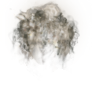
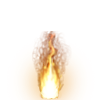
collission-detection big progress; animation class on the clientside

diff --git a/game_lib/math_lib.py b/game_lib/math_lib.py
@@ -25,7 +25,7 @@ def number_wrap(func):
     
 class Point:
     "класс точек и векторов"
-    def __init__(self,x=0,y=0):
+    def __init__(self,x,y):
         try:
             self.x = int(x)
             self.y = int(y)
@@ -82,14 +82,78 @@ class Point:
         
 NullPoint = Point(0,0)
 
+########################################################################
+from config import *
+
+
+
+def intersec_point(A,B,C,D):
+    "ищет точку пересечения двух векторов"
+    vector = (B-A)
+    if vector.y:
+        div = vector.x.__truediv__(vector.y)
+        divx = True
+    elif vector.x:
+        div = vector.y.__truediv__(vector.x)
+        divx = False
+    if C.x==D.x:
+        x = C.x - A.x
+        y = x/div if divx else x*div
+        return A+ Point(x,y)
+    elif C.y == D.y:
+        y = C.y - A.y
+        x = y*div if divx else y/div
+        return A + Point(x,y)
+
+def interception(A,B,C,D):
+    "пересекаются ли отрезки"
+    def ccw(A,B,C):
+        return (C.y-A.y)*(B.x-A.x) > (B.y-A.y)*(C.x-A.x)
+    return ccw(A,C,D) != ccw(B,C,D) and ccw(A,B,C) != ccw(A,B,D)
+
+
+def cross_tile(A, B, tilecord):
+    "выдает соседние тайлы с которыми пересекается вектор и координаты пересечения"
+    start = tilecord*TILESIZE
+    null, CELL = 0 , TILESIZE
+    cds = {tilecord + Point(0,1) : (start + Point(null ,CELL), start+Point(CELL,CELL)),
+                tilecord + Point(1,0) : (start + Point(CELL, CELL), start + Point(CELL, null)),
+                tilecord + Point(0,-1) : (start, start + Point(CELL, null)),
+                tilecord + Point(-1,0) : (start, start + Point(null, CELL))}
+    
+    return [(ij, intersec_point(A,B,C, D)) for ij,(C, D) in cds.items() if interception(A,B,C,D)]
+        
+
 def get_cross(position, vector):
-    "выдает координаты следующего пересекаемого тайла(требует доработки)"
-    single_move = vector*(TILESIZE/abs(vector))
-    new_position = position + single_move
-    if new_position/TILESIZE == position/TILESIZE:
-        new_position = position + single_move*1.5
-    i,j = (new_position/TILESIZE).get()
-    return i,j
+    "возвращает i,j пересекаемых векторов тайлов и координаты этих пересечений"
+    end_cord = (position+vector)/TILESIZE #i,j конечнй точки
+    results = []
+    cur_tile = position/TILESIZE
+    crossed = [cur_tile]
+    while 1:
+        counter = 0
+        crossed_tiles = cross_tile(position, position+vector, cur_tile)
+        #print 'loop', crossed_tiles, position, vector
+        if crossed_tiles:
+            for ij, cross in crossed_tiles:
+                if not ij in crossed:
+                    counter+=1
+                    crossed.append(ij)
+                    results.append((ij.get(), cross))
+                    cur_tile = ij
+                    if ij == end_cord:
+                        return results
+            if not counter:
+                #print 'COUNTER BREAK'
+                return results
+        else:
+            #print 'BREAK'
+            return results
+    return results
+
+
+            
+        
 
 def collinear(vector1, vector2):
     "проверяет сонаправленность векторов(приблизительно для простоты алгоритма)"
@@ -107,6 +171,10 @@ def collinear(vector1, vector2):
         raise TypeError("collinear: some of %s %s isn't Point instance")
 
 if __name__=='__main__':
-    p = Point(30,26)
-    p2 = Point(-1251,-1251)
-    print abs(p)
+    #A,B,C,D = Point(2,2), Point(5,6), Point(0,0), Point(4,0)
+    #print interception(A,B,C,D)
+    #6243:6085 117:106
+
+    position, vector = Point(6243,6085), Point(117,106)
+    print 'result', get_cross(position, vector)
+    

diff --git a/client_lib/client_objects.py b/client_lib/client_objects.py
@@ -18,7 +18,7 @@ class Object:
     DELAY = 0
     "класс игрового объекта на карте"
     def __init__(self, name, position):
-        print 'create %s' % name
+        #print 'create %s' % name
         self.position = position
         self.name = name
     
@@ -83,6 +83,35 @@ class Movable:
             print 'force move %s for %s' % (self.name, self.vector)
             self.position+=self.vector
             self.vector = NullPoint
+
+from math import ceil
+class Animated:
+    def __init__(self, tilename, frames, freq=1):
+        self.frames = frames
+        self.freq = float(freq)
+        self.animation_counter = 1
+        self.animation_tilename = tilename
+        self.DELAY = frames * freq
+    
+    def draw(self, shift):
+        position = self.position - shift - Point(TILESIZE/2,TILESIZE/2)
+        n = int(ceil(self.animation_counter/self.freq))
+        tilename = self.animation_tilename+'_%s' % n
+        
+        
+        return [create_tile(position, tilename)]
+    
+    def update(self, delta):
+        if self.animation_counter==self.frames*self.freq:
+            print 'clear counter'
+            self.DELAY = 0
+        else:
+            self.animation_counter+=1
+        
+        
+            
+        
+        
     
 class Player(Movable, Object):
     tilename = 'player'
@@ -91,9 +120,9 @@ class Player(Movable, Object):
         Movable.__init__(self)
     
     def draw(self, shift):
-        tile = Movable.draw(self,shift)
-        label  = create_label(self.name, Point(*tile[0][1]))
-        return tile + [label]
+        tiles = Movable.draw(self,shift)
+        label  = create_label(self.name, Point(*tiles[0][1]))
+        return tiles + [label]
     
     def die(self):
         self.tilename = 'player_die'
@@ -108,26 +137,28 @@ class SelfPlayer(Player):
     tilename = 'self'
 
 
-class Ball(Movable, Object):
+class Ball(Movable, Object, Animated):
     tilename = 'ball'
     def __init__(self, name, position):
         Object.__init__(self, name, position)
         Movable.__init__(self)
-    
-    def update(self, delta):
-        if self.REMOVE:
-            self.explode_c+=1
-            self.tilename = 'ball_explode_%s' % self.explode_c
+        
+    def update(self, dt):
+        if not self.REMOVE:
+            return Movable.update(self, dt)
         else:
-            Movable.update(self, delta)
+            return Animated.update(self, dt)
+    
+    def draw(self, shift):
+        if not self.REMOVE:
+            return Movable.draw(self, shift)
+        else:
+            return Animated.draw(self, shift)
     
     def explode(self):
-        self.explode_c = 1
-        self.tilename = 'ball_explode_%s' % self.explode_c
-        self.DELAY = 5
+        Animated.__init__(self, 'ball_explode',7,3)
         self.REMOVE = True
         self.moving = False
-        print 'ball explosion'
     
    
 

diff --git a/game_lib/engine_lib.py b/game_lib/engine_lib.py
@@ -98,20 +98,22 @@ class Movable:
         #если вектор движения не достиг нуля, то продолжить движение
         if self.vector:
             #проверка столкновения
-            i,j = get_cross(self.position, self.vector)
-            cross_tile =  game.world.map[i][j]
-            
-            if cross_tile in BLOCKTILES or (cross_tile in TRANSTILES and not self.crossing):
-                self.vector = NullPoint
-                self.move_vector = NullPoint
-                if self.fragile:
-                    self.REMOVE = True
-                    print 'COLLISION'
-            else:
-                part = self.speed / abs(self.vector) # доля пройденного пути в векторе
-                move_vector = self.vector * part if part<1 else self.vector
-                self.vector = self.vector - move_vector
-                self.move_vector = move_vector
+            part = self.speed / abs(self.vector) # доля пройденного пути в векторе
+            move_vector = self.vector * part if part<1 else self.vector
+            #
+            crossed = get_cross(self.position, move_vector)
+            #print 'crossed', crossed
+            for (i,j), cross_position in crossed:
+                cross_tile =  game.world.map[i][j]
+                if cross_tile in BLOCKTILES or (cross_tile in TRANSTILES and not self.crossing):
+                    move_vector = (cross_position - self.position)*0.99
+                    self.vector = move_vector
+                    #если объект хрупкий - отмечаем для удаления
+                    if self.fragile:
+                        self.REMOVE = True
+                    break
+            self.vector = self.vector - move_vector
+            self.move_vector = move_vector
         else:
             self.move_vector = self.vector
         self.prev_position = self.position

diff --git a/client.py b/client.py
@@ -206,7 +206,6 @@ class ObjectsView(GameWindow, Drawable):
         self.focus_object = False
     
     def create_object(self, name, object_type, position):
-        print 'create %s' % name
         game_object = object_dict[object_type](name, position)
         self.objects[name] = game_object
         
@@ -229,13 +228,14 @@ class ObjectsView(GameWindow, Drawable):
                         self.create_object(name, object_type, position)
                         if args=='self':
                             self.focus_object = name          
+        #удаяем объекты с мтеокй REMOVE
+        [self.remove_object(name) for name in self.objects.keys() if self.objects[name].REMOVE]
         #убираем объекты, для которых не получено обновлений
         new_objects = {}
-        for name in self.objects:
-            if name in self.updates and not self.objects[name].REMOVE:
-                new_objects[name] = self.objects[name]
-            else:
-                print 'filter %s' % name
+        for name, game_object in self.objects.items():
+            if name in self.updates or game_object.REMOVE:
+                new_objects[name] = game_object
+                
         self.objects = new_objects
         #выполняем апдейты
         if self.updates:
@@ -273,7 +273,6 @@ class ObjectsView(GameWindow, Drawable):
         if self.objects[name].DELAY:
             self.objects[name].DELAY-=1
         else:
-            print 'remove %s' % name
             if name in self.updates:
                 del self.updates[name]
             if name in self.objects:

diff --git a/client_lib/gui_lib.py b/client_lib/gui_lib.py
@@ -110,6 +110,7 @@ class InputHandle:
     MOVE_BUTTON = 1
     STRIKE_BUTTON = 4
     control_keys = [UP, DOWN, LEFT, RIGHT, RSHIFT]
+    striking = False
     
     def __init__(self):
         step = TILESIZE/2
@@ -135,14 +136,19 @@ class InputHandle:
         elif button==self.STRIKE_BUTTON:
             vector = (Point(x,y) - self.center)
             self.send_ball(vector)
+            self.striking = vector
     
     def on_mouse_release(self, x, y, button, modifiers):
         if button==self.MOVE_BUTTON:
             self.vector = False
+        elif button==self.STRIKE_BUTTON:
+            self.striking = False
     
     def on_mouse_drag(self, x, y, dx, dy, button, modifiers):
         if button==self.MOVE_BUTTON:
             self.vector = (Point(x,y) - self.center)
+        elif button==self.STRIKE_BUTTON:
+            self.striking = (Point(x,y) - self.center)
             
         
     
@@ -160,6 +166,8 @@ class InputHandle:
                 self.send_move(vector)
         elif self.vector:
             self.send_move(self.vector)
+        if self.striking:
+            self.send_ball(self.striking)
             
 
 class Drawable:

diff --git a/config.py b/config.py
@@ -6,9 +6,9 @@ IN_PORT = 8888
 OUT_PORT = 8889
 #
 TILESIZE = 40
-PLAYERSPEED = 60
+PLAYERSPEED = 40
 
-BALLSPEED = 100
+BALLSPEED = 60
 BALLLIFETIME = 10
 BALLRADIUS = 40
 #
@@ -21,5 +21,5 @@ ROUND_TIMER = 0.1
 SERVER_TIMER = 0.1
 
 PROFILE_CLIENT = 0
-PROFILE_SERVER = False
+PROFILE_SERVER = 0
 

diff --git a/game_lib/engine.py b/game_lib/engine.py
@@ -1,7 +1,6 @@
 #!/usr/bin/env python
 # -*- coding: utf-8 -*-
 #
-#  Без имени.py
 from sys import path
 path.append('../')
 
